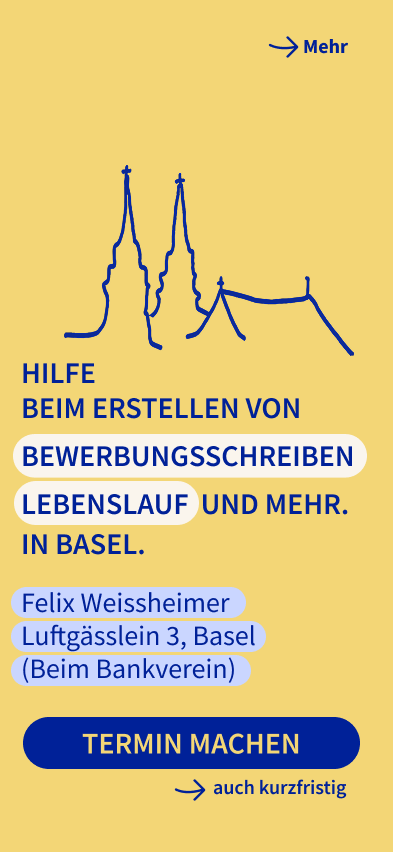
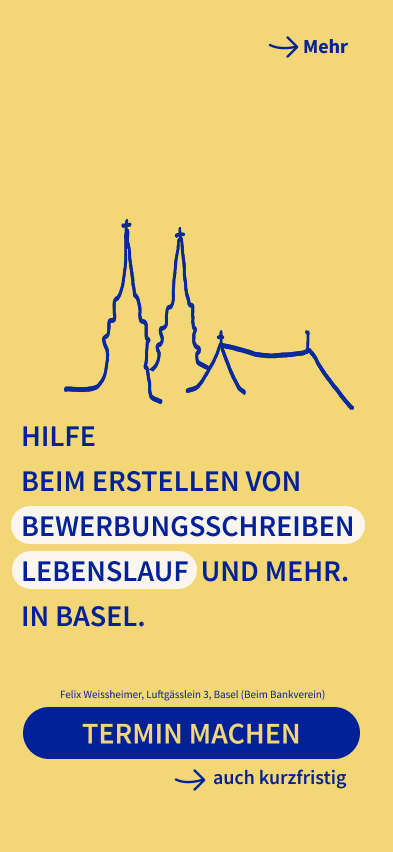
Update landing page styling
- Address: 11px font, 24px line-height, centered, full width
- Add 60px top margin to illustration
- Adjust spacing between hero, address, and button

🤖 Generated with [Claude Code](https://claude.com/claude-code)

Changed region(s): [[0.0305, 0.1831, 0.9466, 0.946], [0.855, 0.3967, 0.916, 0.4272]]

diff --git a/css/global.css b/css/global.css
@@ -338,7 +338,7 @@ body {
 }
 
 .landing-illustration {
-  margin: 0;
+  margin-top: 60px;
   align-self: flex-end;
 }
 
@@ -355,59 +355,53 @@ body {
 
 .hero-text {
   display: block;
-  font-size: 26px;
+  font-size: 30px;
   font-weight: var(--font-weight-semibold);
   color: var(--color-primary);
-  line-height: 1.15;
+  line-height: 45px;
   margin: 0;
 }
 
 .hero-text__line {
   display: block;
-  margin-bottom: 2px;
 }
 
 .hero-text__line--spaced {
-  margin-bottom: 13px;
+  margin-bottom: 0;
 }
 
 .highlight {
   background-color: var(--color-white);
   color: var(--color-primary);
   font-weight: var(--font-weight-semibold);
-  padding: 2px 8px;
+  padding: 4px 12px;
   border-radius: 20px;
-  display: inline;
+  display: inline-block;
+  line-height: 30px;
+  height: 38px;
   box-decoration-break: clone;
   -webkit-box-decoration-break: clone;
 }
 
 .landing-address {
   font-style: normal;
-  font-size: 20px;
-  font-weight: var(--font-weight-regular);
-  line-height: 1.3;
-  text-align: left;
+  font-size: 11px;
+  font-weight: var(--font-weight-semibold);
+  line-height: 24px;
+  text-align: center;
+  text-transform: capitalize;
   margin-top: 24px;
+  margin-bottom: 0;
+  width: 100%;
 }
 
 .landing-address a {
   color: var(--color-primary);
   text-decoration: none;
-  display: block;
 }
 
 .landing-address a:hover {
   opacity: 0.8;
-}
-
-.address-line {
-  display: block;
-  background-color: var(--color-address-bg);
-  padding: 2px 8px;
-  border-radius: 20px;
-  margin-bottom: 2px;
-  width: fit-content;
 }
 
 .landing-cta {
@@ -416,7 +410,7 @@ body {
   align-items: stretch;
   gap: 8px;
   width: 100%;
-  margin-top: 24px;
+  margin-top: 0;
 }
 
 .btn--primary.btn--large {
@@ -566,35 +560,25 @@ body {
   margin-bottom: var(--spacing-md);
 }
 
-.languages-section {
-  margin-bottom: var(--spacing-lg);
-}
-
-.languages-section p {
-  font-size: var(--font-size-sm);
-  font-weight: var(--font-weight-semibold);
-  line-height: 1.5;
-}
-
 .language-highlight {
   background-color: var(--color-white);
   padding: 2px 4px;
   display: inline;
 }
 
-/* KI Section */
-.ki-section {
+/* Content Section (dynamic sections on about page) */
+.content-section {
   margin-bottom: var(--spacing-lg);
 }
 
-.ki-section p {
+.content-section p {
   font-size: var(--font-size-sm);
   font-weight: var(--font-weight-semibold);
   line-height: 1.5;
   margin-bottom: var(--spacing-md);
 }
 
-.ki-section p:last-child {
+.content-section p:last-child {
   margin-bottom: 0;
 }
 
@@ -716,10 +700,6 @@ body {
 
   .page-container {
     padding-top: 90px;
-  }
-
-  .hero-text {
-    font-size: 34px;
   }
 
   .landing-illustration img {

diff --git a/site/snippets/components/address.php b/site/snippets/components/address.php
@@ -1,7 +1,3 @@
 <address class="landing-address">
-  <a href="<?= $site->google_maps_url() ?>" target="_blank" rel="noopener">
-    <span class="address-line"><?= $site->owner_name() ?></span>
-    <span class="address-line"><?= $site->street() ?></span>
-    <span class="address-line"><?= $site->landmark() ?></span>
-  </a>
+  <a href="<?= $site->google_maps_url() ?>" target="_blank" rel="noopener"><?= $site->owner_name() ?>, <?= $site->street() ?> <?= $site->landmark() ?></a>
 </address>
